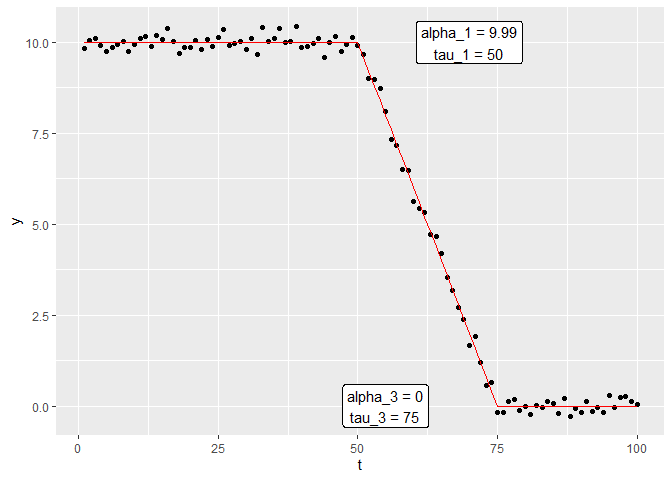
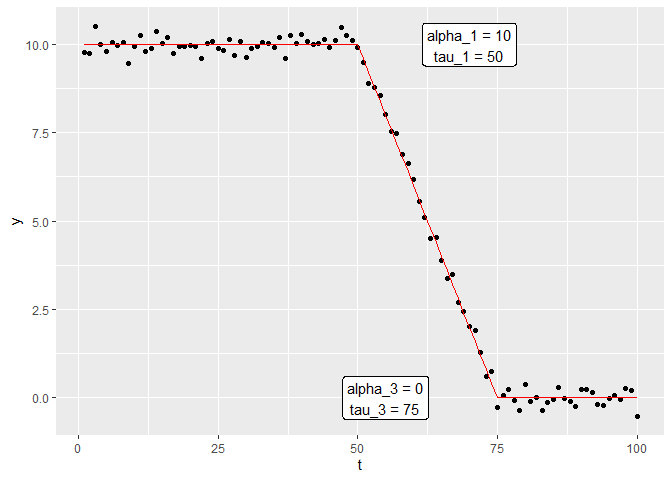
Fixed Typo

diff --git a/README.md b/README.md
@@ -20,7 +20,7 @@ remotes::install_github("https://github.com/m-g-h/DTtiming")
 
 ## Example
 
-Setup and example data:
+Setup example data:
 
 ``` r
 library(DTtiming)
@@ -59,60 +59,63 @@ All relevant parameters are returned:
 ``` r
 DT_fit
 #> $alpha
-#>       alpha_1       alpha_3 
-#>  9.9911061047 -0.0002470735 
+#>      alpha_1      alpha_3 
+#>  9.995653271 -0.004006004 
 #> 
 #> $sigma_sq
 #> sigma_sq_1 sigma_sq_3 
-#> 0.03392059 0.02716421 
+#> 0.03993147 0.04411771 
 #> 
 #> $tau
 #> tau_2 tau_3 
 #>    50    75 
 #> 
 #> $y
-#>   [1]  9.81559941 10.04116663 10.09262839  9.92158327  9.74988627  9.85635686
-#>   [7]  9.94676542 10.01008928  9.75391763  9.92302483 10.09624282 10.16788880
-#>  [13]  9.89509541 10.18079171 10.06412345 10.36969151 10.02197098  9.70114019
-#>  [19]  9.84877976  9.84816401 10.03601738  9.80682423 10.07746869  9.88382435
-#>  [25] 10.14002805 10.34583038  9.91531077  9.97062246 10.03000708  9.80369614
-#>  [31] 10.10378120  9.65479454 10.40603044 10.02928931 10.08856186 10.37533121
-#>  [37]  9.99517284 10.01568301 10.42354985  9.84162851  9.88099758  9.97548229
-#>  [43] 10.10082831  9.57883813  9.98621688 10.15938566  9.73415888  9.93938333
-#>  [49] 10.12711402  9.91138105  9.66823175  9.00166787  8.96119905  8.73662052
-#>  [55]  8.10131307  7.31726470  7.17321175  6.50654816  6.48175681  5.63153779
-#>  [61]  5.43486151  5.33426453  4.72422165  4.65860236  4.19751433  3.54346724
-#>  [67]  3.17569933  2.71492670  2.37421413  1.68033502  1.92559125  1.19693078
-#>  [73]  0.57822333  0.66239580 -0.17668770 -0.17728216  0.14101733  0.18256314
-#>  [79] -0.11458882 -0.01622389 -0.22517991  0.01733328 -0.04172466  0.12250288
-#>  [85]  0.07643121 -0.20221199  0.21438682 -0.26986148 -0.06414734 -0.16877885
-#>  [91]  0.12646352 -0.13706212 -0.04556253 -0.17163336  0.29402406 -0.03181302
-#>  [97]  0.24170050  0.25963055  0.13766851  0.04548125
+#>   [1]  9.778335878  9.746206272 10.502007190 10.009691704  9.806878834
+#>   [6] 10.052783039  9.962129142 10.048436901  9.451010166  9.939745051
+#>  [11] 10.261685758  9.804002748  9.875303533 10.381729420 10.034761826
+#>  [16] 10.187610486  9.757610336  9.953055668  9.957150813  9.977056609
+#>  [21]  9.955638086  9.611269617 10.040870006 10.073008441  9.887960918
+#>  [26]  9.836340783 10.152124320  9.682753062 10.090093782  9.645082948
+#>  [31]  9.877686401  9.950349820 10.057980428 10.028116758  9.923932361
+#>  [36] 10.184358161  9.593299362 10.248139680 10.038237185 10.272491366
+#>  [41] 10.095585310 10.003994938 10.020377432 10.134691405  9.926175822
+#>  [46] 10.099570996 10.471493981 10.242249915 10.106899664  9.927156112
+#>  [51]  9.488703297  8.894230697  8.784071962  8.562633310  8.021322943
+#>  [56]  7.547481786  7.467006463  6.881295521  6.636532362  6.171618920
+#>  [61]  5.566847473  5.098184384  4.514286251  4.544126875  3.871268596
+#>  [66]  3.369698407  3.492537413  2.680955318  2.451824957  2.018175277
+#>  [71]  1.911467418  1.267722881  0.606147351  0.754163306 -0.275136096
+#>  [76]  0.063529423  0.224959948 -0.070460794 -0.360395942  0.376174598
+#>  [81] -0.118426738 -0.003743479 -0.360079259 -0.135952699 -0.057007220
+#>  [86]  0.294625021 -0.033572858 -0.121094362 -0.254093893  0.241040102
+#>  [91]  0.231601627  0.151532580 -0.185003515 -0.212212303 -0.012761739
+#>  [96]  0.071908999 -0.065604139  0.251360559  0.188830995 -0.519167724
 #> 
 #> $y_hat
-#>   [1]  9.9911061047  9.9911061047  9.9911061047  9.9911061047  9.9911061047
-#>   [6]  9.9911061047  9.9911061047  9.9911061047  9.9911061047  9.9911061047
-#>  [11]  9.9911061047  9.9911061047  9.9911061047  9.9911061047  9.9911061047
-#>  [16]  9.9911061047  9.9911061047  9.9911061047  9.9911061047  9.9911061047
-#>  [21]  9.9911061047  9.9911061047  9.9911061047  9.9911061047  9.9911061047
-#>  [26]  9.9911061047  9.9911061047  9.9911061047  9.9911061047  9.9911061047
-#>  [31]  9.9911061047  9.9911061047  9.9911061047  9.9911061047  9.9911061047
-#>  [36]  9.9911061047  9.9911061047  9.9911061047  9.9911061047  9.9911061047
-#>  [41]  9.9911061047  9.9911061047  9.9911061047  9.9911061047  9.9911061047
-#>  [46]  9.9911061047  9.9911061047  9.9911061047  9.9911061047  9.9911061047
-#>  [51]  9.5914519776  9.1917978504  8.7921437233  8.3924895962  7.9928354690
-#>  [56]  7.5931813419  7.1935272148  6.7938730877  6.3942189605  5.9945648334
-#>  [61]  5.5949107063  5.1952565792  4.7956024520  4.3959483249  3.9962941978
-#>  [66]  3.5966400706  3.1969859435  2.7973318164  2.3976776893  1.9980235621
-#>  [71]  1.5983694350  1.1987153079  0.7990611808  0.3994070536 -0.0002470735
-#>  [76] -0.0002470735 -0.0002470735 -0.0002470735 -0.0002470735 -0.0002470735
-#>  [81] -0.0002470735 -0.0002470735 -0.0002470735 -0.0002470735 -0.0002470735
-#>  [86] -0.0002470735 -0.0002470735 -0.0002470735 -0.0002470735 -0.0002470735
-#>  [91] -0.0002470735 -0.0002470735 -0.0002470735 -0.0002470735 -0.0002470735
-#>  [96] -0.0002470735 -0.0002470735 -0.0002470735 -0.0002470735 -0.0002470735
+#>   [1]  9.995653271  9.995653271  9.995653271  9.995653271  9.995653271
+#>   [6]  9.995653271  9.995653271  9.995653271  9.995653271  9.995653271
+#>  [11]  9.995653271  9.995653271  9.995653271  9.995653271  9.995653271
+#>  [16]  9.995653271  9.995653271  9.995653271  9.995653271  9.995653271
+#>  [21]  9.995653271  9.995653271  9.995653271  9.995653271  9.995653271
+#>  [26]  9.995653271  9.995653271  9.995653271  9.995653271  9.995653271
+#>  [31]  9.995653271  9.995653271  9.995653271  9.995653271  9.995653271
+#>  [36]  9.995653271  9.995653271  9.995653271  9.995653271  9.995653271
+#>  [41]  9.995653271  9.995653271  9.995653271  9.995653271  9.995653271
+#>  [46]  9.995653271  9.995653271  9.995653271  9.995653271  9.995653271
+#>  [51]  9.595666900  9.195680529  8.795694158  8.395707787  7.995721416
+#>  [56]  7.595735045  7.195748674  6.795762303  6.395775932  5.995789561
+#>  [61]  5.595803190  5.195816819  4.795830448  4.395844077  3.995857706
+#>  [66]  3.595871335  3.195884964  2.795898593  2.395912222  1.995925851
+#>  [71]  1.595939480  1.195953109  0.795966738  0.395980367 -0.004006004
+#>  [76] -0.004006004 -0.004006004 -0.004006004 -0.004006004 -0.004006004
+#>  [81] -0.004006004 -0.004006004 -0.004006004 -0.004006004 -0.004006004
+#>  [86] -0.004006004 -0.004006004 -0.004006004 -0.004006004 -0.004006004
+#>  [91] -0.004006004 -0.004006004 -0.004006004 -0.004006004 -0.004006004
+#>  [96] -0.004006004 -0.004006004 -0.004006004 -0.004006004 -0.004006004
 #> 
 #> $RSS
-#> [1] 3.469634
+#> [1] 4.423988
 ```
 
 ## References
